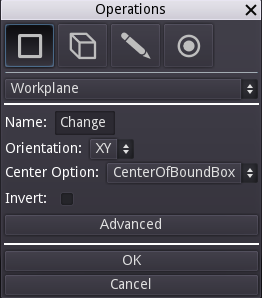
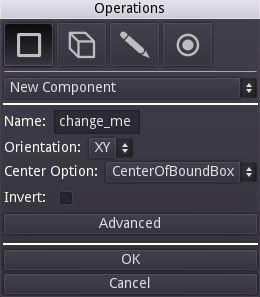
Updated the tutorial for the 0.3-alpha release

Changed region(s): [[0.0, 0.0, 1.0, 1.0], [0.4615, 0.7273, 0.5231, 0.7576], [0.4615, 0.4848, 0.4923, 0.5152]]

diff --git a/docs/tutorials/bearing_block.md b/docs/tutorials/bearing_block.md
@@ -30,17 +30,17 @@ Click the OK button and the parameter will be added to the _Parameters_ list in 
 
 ### Step 2 - Add the Bearing Thickness Parameter
 
-The process from step 1 of adding a parameter should be repeated for the bearing thickness, using `bearing_thickness` as the _Name_, and `7.0` as the _Value_. After clicking the _OK_ button, the Parameters list should look like this.
+Repeat the process from step 1 by adding a parameter for the bearing thickness, using `bearing_thickness` as the _Name_, and `7.0` as the _Value_. After clicking the _OK_ button, the Parameters list should look like this.
 
 ![bearing_thickness Parameter in Parameters List](_static/Bearing_Block_Parameters_List_bearing_thickness_Added.png)
 
 ### Step 3 - Add Derived Parameters
 
-Parameter values support formulas, so it is possible to base one parameter on the value of another. This makes it possible to define relationships between different aspects of a design so that the entire design (or at least most of it) updates properly when a change is made. Determining the right parameters and creating good relationships between them for an optimal design can be hard, and takes practice and experimentation.
+Formulas are allowed as parameter values, so it is possible to base one parameter on the value of another. This makes it possible to define relationships between different aspects of a design so that the entire design (or at least most of it) updates properly when a change is made. Determining the right parameters and creating good relationships between them for an optimal design can be hard, and takes practice and experimentation.
 
-It is possible to over-do parameterization of your models, and so care should be taken to ensure that all parameters that are created add value to the end design. In this case, we are going to add parameters to determine the dimensions of the bearing block, and the inset of the mounting hole pattern. A few more parameters could be added, but in an effort to keep this tutorial simpler are omitted.
+It is possible to over-do parameterization of your models, and so care should be taken to ensure that all parameters that are created add value to the end design. In this case, we are going to add parameters to determine the dimensions of the bearing block and the inset of the mounting hole pattern. A few more parameters could be added, but in an effort to keep this tutorial simpler they are omitted.
 
-The width and height of the bearing block will be determined by the bearing size, and how much material there should be around the bearing to support the press fit properly. We will make our bearing block square, and the bearing will be flush with the top and bottom of the plate when pushed in. To achieve this, the following parameters can be added.
+The width and height of the bearing block will be determined by the bearing size, and how much material there should be around the bearing to support a press fit properly. We will make our bearing block square, and the bearing will be flush with the top and bottom of the plate when pushed in. To achieve this, the following parameters can be added.
 
 | Name            | Value               | Notes                                           |
 | :-------------- | :------------------ | :---------------------------------------------- |
@@ -57,26 +57,30 @@ Once finished, the _Parameters_ list should look like this.
 
 With the parameters set, we can now create a simple block for the main body of the bearing block.
 
-### Step 1 - Creating the Workplane
+### Step 1 - Creating the Component
 
 Right click on the 3D view to bring up the Operations dialog.
 
 ![Bearing Block Tutorial Operations Dialog](_static/Bearing_Block_Tutorial_Operations_Dialog.png)
 
-1. Make sure that the first drop down shows `Workplane`, which should be the default. Every component design starts with a base Workplane that everything else is built on.
-2. The _Name_ field shows "Change". This should be set to a meaningful and concise name for the component, such as `Bearing Block`.
-3. The _Orientation_ drop down sets the axes that define the workplane. For instance, _XY_ makes the workplane a plane aligned with both the X and Y axes. `XY` is a safe choice for many desktop manufacturing uses because the bed of a 3D printer or CNC router is typically defined as the X and Y axes, and the print head is the Z or "up" axis. We will build the bearing plate "up" the Z axis, much like a 3D printer would print it.
+1. Make sure that the first drop down shows `New Component`, which should be the default. Every component design starts with a component which has a base workplane that everything else is built on.
+2. The _Name_ field shows `change_me`. This should be set to a meaningful and concise name for the component, such as `bearing_block`. Note that component names need to follow the same naming conventions as parameters so that they can be used as CadQuery variable names.
+3. The _Orientation_ drop down sets the axes that define the component's base workplane. For instance, _XY_ sets the workplane to be aligned with both the X and Y axes. `XY` is a safe choice for many desktop manufacturing uses because the bed of a 3D printer or CNC router is typically defined as the X and Y axes, and the print head is the Z or "up" axis. We will build the bearing plate "up" the Z axis, much like a 3D printer would print it.
 4. _Center Option_ - This option can get a little complicated, but for now the default of `CenterOfBoundBox` will work fine. This defines the center of the workplane as being the geometric center of the component. The other center options have nuances that we won't cover here.
 5. _Invert_ - This defines whether the normal, or "up", direction from the workplane is in a positive or negative direction. The default is unchecked, which works well for our purposes and means that the normal will be in the positive direction.
 6. _Advanced_ - This button shows another set of controls that allow a user to define a workplane in whatever location and orientation they choose. For our purposes, this is not needed.
 
-Once the settings are correct, click the OK button. At this point you should have a semi-transparent representation of the workplane that was just created. If you rotate the view, you will see that there is a plane representing the workplane, and a spike which represents the normal of the workplane. The normal can become important in certain operations like when doing a cut or creating a hole.
+With the _Name_ field set to `bearing_block` and the other controls left at their defaults, click the OK button. At this point you should have a semi-transparent representation of the workplane that was just created. If you rotate the view, you will see that there is a plane representing the workplane, and a spike which represents the normal of the workplane. The normal can become important in certain operations like when doing a cut or creating a hole.
 
 ![Workplane Visualization](_static/Bearing_Block_Tutorial_Workplane_Visualization.png)
 
+You will also notice that a `bearing_block` entry has been added to the _Components_ list of the main user interface.
+
+![bearing_block Component Added](_static/Bearing_Block_Component_Added_To_List.png)
+
 ### Step 2 - Creating a 2D Sketch on the Workplane
 
-Now that there is a workplane to place geometry on, it's time to create the 2D sketch that will become the base block. Right click to bring up the _Operations_ dialog again, and click the _2D_ button at the top (pencil icon) to select the sketch tool.
+Now that there is a workplane to place geometry on, it is time to create the 2D sketch that will become the base block. Right click to bring up the _Operations_ dialog again, and click the _2D_ button at the top (pencil icon) to select the sketch tool.
 
 ![Default Sketch Dialog](_static/Bearing_Block_Tutorial_Default_Sketch_Dialog.png)
 
@@ -95,7 +99,7 @@ If the `rect` controls look as they do in the following screenshot, go ahead and
 
 ![rect Controls Set](_static/Bearing_Block_Tutorial_rect_Controls_Set.png)
 
-At this point a 2D representation of the rectangle should be visible in the 3D view, and the rect operation will show up in the _History_ list in the left pane. The 2D rectangle sketch will be used in the next operation. Since this is the first time accessing the Python subsystem to execute the script for your component, there may be a slight delay before the component is rendered.
+At this point a 2D representation of the rectangle should be visible in the 3D view, and the `rect` operation will show up in the _History_ list in the left pane. The 2D rectangle sketch will be used in the next operation. Since this is the first time accessing the Python subsystem to execute the script for your component, there may be a slight delay before the component is rendered.
 
 ### Step 3 - Extrude the Rectangle
 
@@ -111,7 +115,7 @@ Below is an explanation to each of the `extrude` settings.
 
 1. _Distance_ - The distance that the extrude operation will move through. This will determine the depth dimension of the resulting solid.
 2. _Combine_ - Determines whether or not this resulting solid should be combined with other existing solids within this component.
-3. _Clean_ - When set, will ask the CAD kernel to clean the resulting solid(s). By default this is checked, and can be unchecked if an extrude results in an invalid solid due to a kernel issue.
+3. _Clean_ - When set, will ask the CAD kernel to clean the resulting solid(s). By default this is checked, and can be unchecked if an extrude results in an invalid solid due to a CAD kernel issue.
 4. _Both_ - Will cause the extrude operation to move through the specified distance in both the positive and negative normal directions at the same time.
 5. _Taper_ - Causes the extruded area to increase or decrease as the extrude moves over the distance. A positive taper will cause the area  to decrease and a negative taper will cause the area to increase. Keep in mind that using a taper can make it harder to determine the area of the face at the end of the extrusion.
 6. _Invert_ - Checking this will cause the extrusion to move in the opposite direction from the workplane normal.
@@ -124,7 +128,7 @@ Once the extrude settings are as shown, click the _OK_ button. The result should
 
 The center hole that the bearing presses into can now be added. To tell Semblage (and by extension CadQuery) which face to place the next feature on, we use selectors. Selectors are a flexible way to capture design intent. For instance, if we select the face in the maximum Z axis direction, the furthest face will always be selected, even if steps or other features are added to the component. Selectors help make designs less brittle.
 
-The goal is to eventually have selectors largely determined by what the user selects prior to specifying a new selector operation, but for now the selectors have to be added manually.
+The goal is to eventually have selectors be largely determined by what the user selects prior to starting a new selector operation, but for now the selectors have to be added manually.
 
 ### Step 1 - Select a Face to Place Circle On
 
@@ -138,13 +142,15 @@ _Face_, _Edge_ and _Vertex_ selectors are available, but to place the circle for
 
 1. Pull down the _Face Selector_ drop down that shows _None_ by default and set it to `Maximum`.
 2. A new drop down will appear to set the axis. Set this to `Z`. This, combined with the _Maximum_ setting above, will select the face that is furthest along the Z axis away from the origin.
-3. Click the _Create Workplane_ toggle to set it to _ON_. This will display extra options for adding a workplane to the selected face so that the circle can be added to that.
+3. The selector index allows the selection to be changed to the selections before or after the primary selection. This is useful for selecting things like a step 2 faces below the face that you are selecting. This can be left at 0 for our uses, which ignores the index.
+4. Click the _Create Workplane_ toggle to set it to _ON_. This will display extra options for adding a workplane to the selected face so that the circle can be added to that.
+5. All other controls can be left at their default.
 
 Your _Operations_ dialog should now look like this.
 
 ![Face Selector Values Set](_static/Bearing_Block_Operations_Dialog_Selector_Values_Set.png)
 
-Hit _OK_ to add this selector to the main _History_ list. Again, since Semblage is in alpha there are visualizations missing, including selector and face workplane visualizations. There will be nothing shown in the 3D view for edges and vertices at this time, but a thin slice representing the selected face selector may be shown. However, even if nothing shows in the 3D view, the face selector will still show up in the _History_ list.
+Click _OK_ to add this selector to the main _History_ list. Again, since Semblage is in alpha there are visualizations missing, including selector and face workplane visualizations. There will be nothing shown in the 3D view for edges and vertices at this time, but a thin slice representing the selected face selector may be shown. However, even if nothing shows in the 3D view, the face selector will still show up in the _History_ list.
 
 ![Face Selector in History List](_static/Bearing_Block_Face_Selector_in_History.png)
 
@@ -154,7 +160,7 @@ Now that the "top" face of the block has been selected, we can place a circle th
 
 Bring up the _Operations_ dialog (right click), and follow these steps.
 
-1. Click the 2D sketch mode button
+1. Click the _2D_ sketch mode button
 2. The `circle` operation should be shown by default, but if it is not, click the operation drop down and select it
 3. Set the value of _Radius_ to `bearing_od`, which is the parameter we set before.
 4. Leave _For Construction_ unchecked
@@ -163,7 +169,7 @@ The `circle` controls in the dialog should now look like this (the parameter nam
 
 ![Circle Values Set](_static/Bearing_Block_Operations_Dialog_Circle_Values_Set.png)
 
-Note that in most cases a press-fit tolerance would be added to the hole to make sure the bearing fit correctly. To keep things a little simpler, we have omitted that here.
+Note that in most cases a press-fit tolerance would be added to the hole to make sure the bearing fits correctly. To keep things a little simpler, we have omitted that here.
 
 Click the _OK_ button to add the circle to the _History_ list. The circle will be displayed in the 3D view at this point, but the original box will not be. Displaying additions in the context of the operations that have been performed before will be a future visualization update.
 
@@ -185,7 +191,7 @@ Click the _OK_ button if/when all settings match the screenshot. This adds the `
 
 ## Counter-bore Mounting Holes
 
-We now want to place counter-bore holes in each of the 4 corners of the block. We are going to place another rectangle on the maximum Z ("top") surface of the block, but this time we are going to make it construction geometry. This type of geometry is only used for placing other geometry and features, not for being converted into a solid by a 3D operation.
+We now want to place counter-bore holes in each of the 4 corners of the block. We are going to place another rectangle on the maximum Z ("top") surface of the block, but this time we are going to make it construction geometry. This type of geometry is used only for placing other geometry and features, not for being converted into a solid by a 3D operation.
 
 ### Step 1 - Set Location of Construction Geometry
 
@@ -194,9 +200,10 @@ We need to select the face that the construction geometry will be placed on. As 
 1. Click the _Selectors_ mode button.
 2. Click on the _Face Selector_ drop down and select `Maximum`. This will select the face furthest away from the origin in the axis we select next.
 3. A new drop down will appear for setting the axis. Set this to `Z`.
-4. Click the Create Workplane toggle to set it to ON. This will display extra options for adding a workplane to the selected face so that the circle can be added to that.
+4. Leave the index at 0 to ignore it.
+5. Click the Create Workplane toggle to set it to ON. This will display extra options for adding a workplane to the selected face so that the circle can be added to that.
 
-The _Operations dialog settings should now look like the following.
+The _Operations_ dialog settings should now look like the following.
 
 ![Counter Bore Face Selector](_static/Bearing_Block_Operations_Dialog_Selector_Values_Set.png)
 
@@ -211,13 +218,13 @@ Next we will add the rectangle that will be used to place the holes. Right click
 3. Set the _Width_ value to `block_width - hole_inset`, which insets the rectangle from the edge of the block along the width dimension.
 4. Set the _Height_ value to `block_height - hole_inset`, which insets the rectangle from the edge of the block along the height dimension.
 5. Leave _Centered_ checked. We centered the rectangle that was used to build the base block, and so we want to center this one as well.
-6. Check the box next to _For Construction_. This is what determines that the rectangle will only be used to place other geometry and locate other options.
+6. Check the box next to _For Construction_. This is what determines that the rectangle will only be used to place other geometry.
 
 The `rect` controls should now look like the following screenshot.
 
-![Construction rect Values Set](_static/Bearing_Block_Contruction_rect_Values_Set.png)
+![Construction rect Values Set](_static/Bearing_Block_Tutorial_rect_Controls_Set_For_Construction.png)
 
-Click the _OK_ button to add the construction rectangle to the main _History_ list.
+Click the _OK_ button to add the construction rectangle to the main _History_ list. The rectangle will be shown, but the block will not be.
 
 ### Step 4 - Select Rectangle Vertices to Place Holes
 
@@ -231,7 +238,7 @@ The _Operations_ dialog should now look like this.
 
 ![Select All Rect Vertices](_static/Bearing_Block_Select_All_Rect_Vertices.png)
 
-Click _OK_ to add the selector to the main _History_ list. Nothing will be displayed at this time since selector visualizations have not been implemented.
+Click _OK_ to add the selector to the main _History_ list. Nothing will be displayed at this time since selector visualizations have not been implemented. However, a `.vertices()` entry will be seen in the _History_ list.
 
 ### Step 3 - Add Counter-Bore Holes
 
@@ -282,6 +289,7 @@ Open the _Operations_ dialog and follow these steps.
 1. Click the _Selectors_ mode button.
 2. Click the _Edge Selector_ drop down that shows `None`, and select `Parallel`. The parallel selector selects any edges that are parallel to a given axis.
 3. Once the _Parallel_ selector has been clicked, a new drop down will become visible. We want to select the edges parallel to the Z axis, so select `Z` in this new drop down.
+4. Leave the _Create Workplane_ toggle set to `OFF`.
 
 The _Operations_ dialog should now look like this.
 

diff --git a/docs/developer_setup.md b/docs/developer_setup.md
@@ -6,7 +6,7 @@ Semblage is built using the [Godot game engine](https://godotengine.org/) (using
 
 ## Godot Installation
 
-Godot is a single file distributable, which can be downloaded [here](https://godotengine.org/download). The version that is currently used for Semblage is 3.2.x. Download the package for your operating system, and extract it. There should be a binary within the archive. Put this in a location where it is easy to run during the development process.
+Godot is a single file distributable, which can be downloaded [here](https://godotengine.org/download). The version that is currently used for Semblage is 3.3.x. Download the package for your operating system, and extract it. There should be a binary within the archive. Put this in a location where it is easy to run during the development process.
 
 ## godot-python Installation
 
